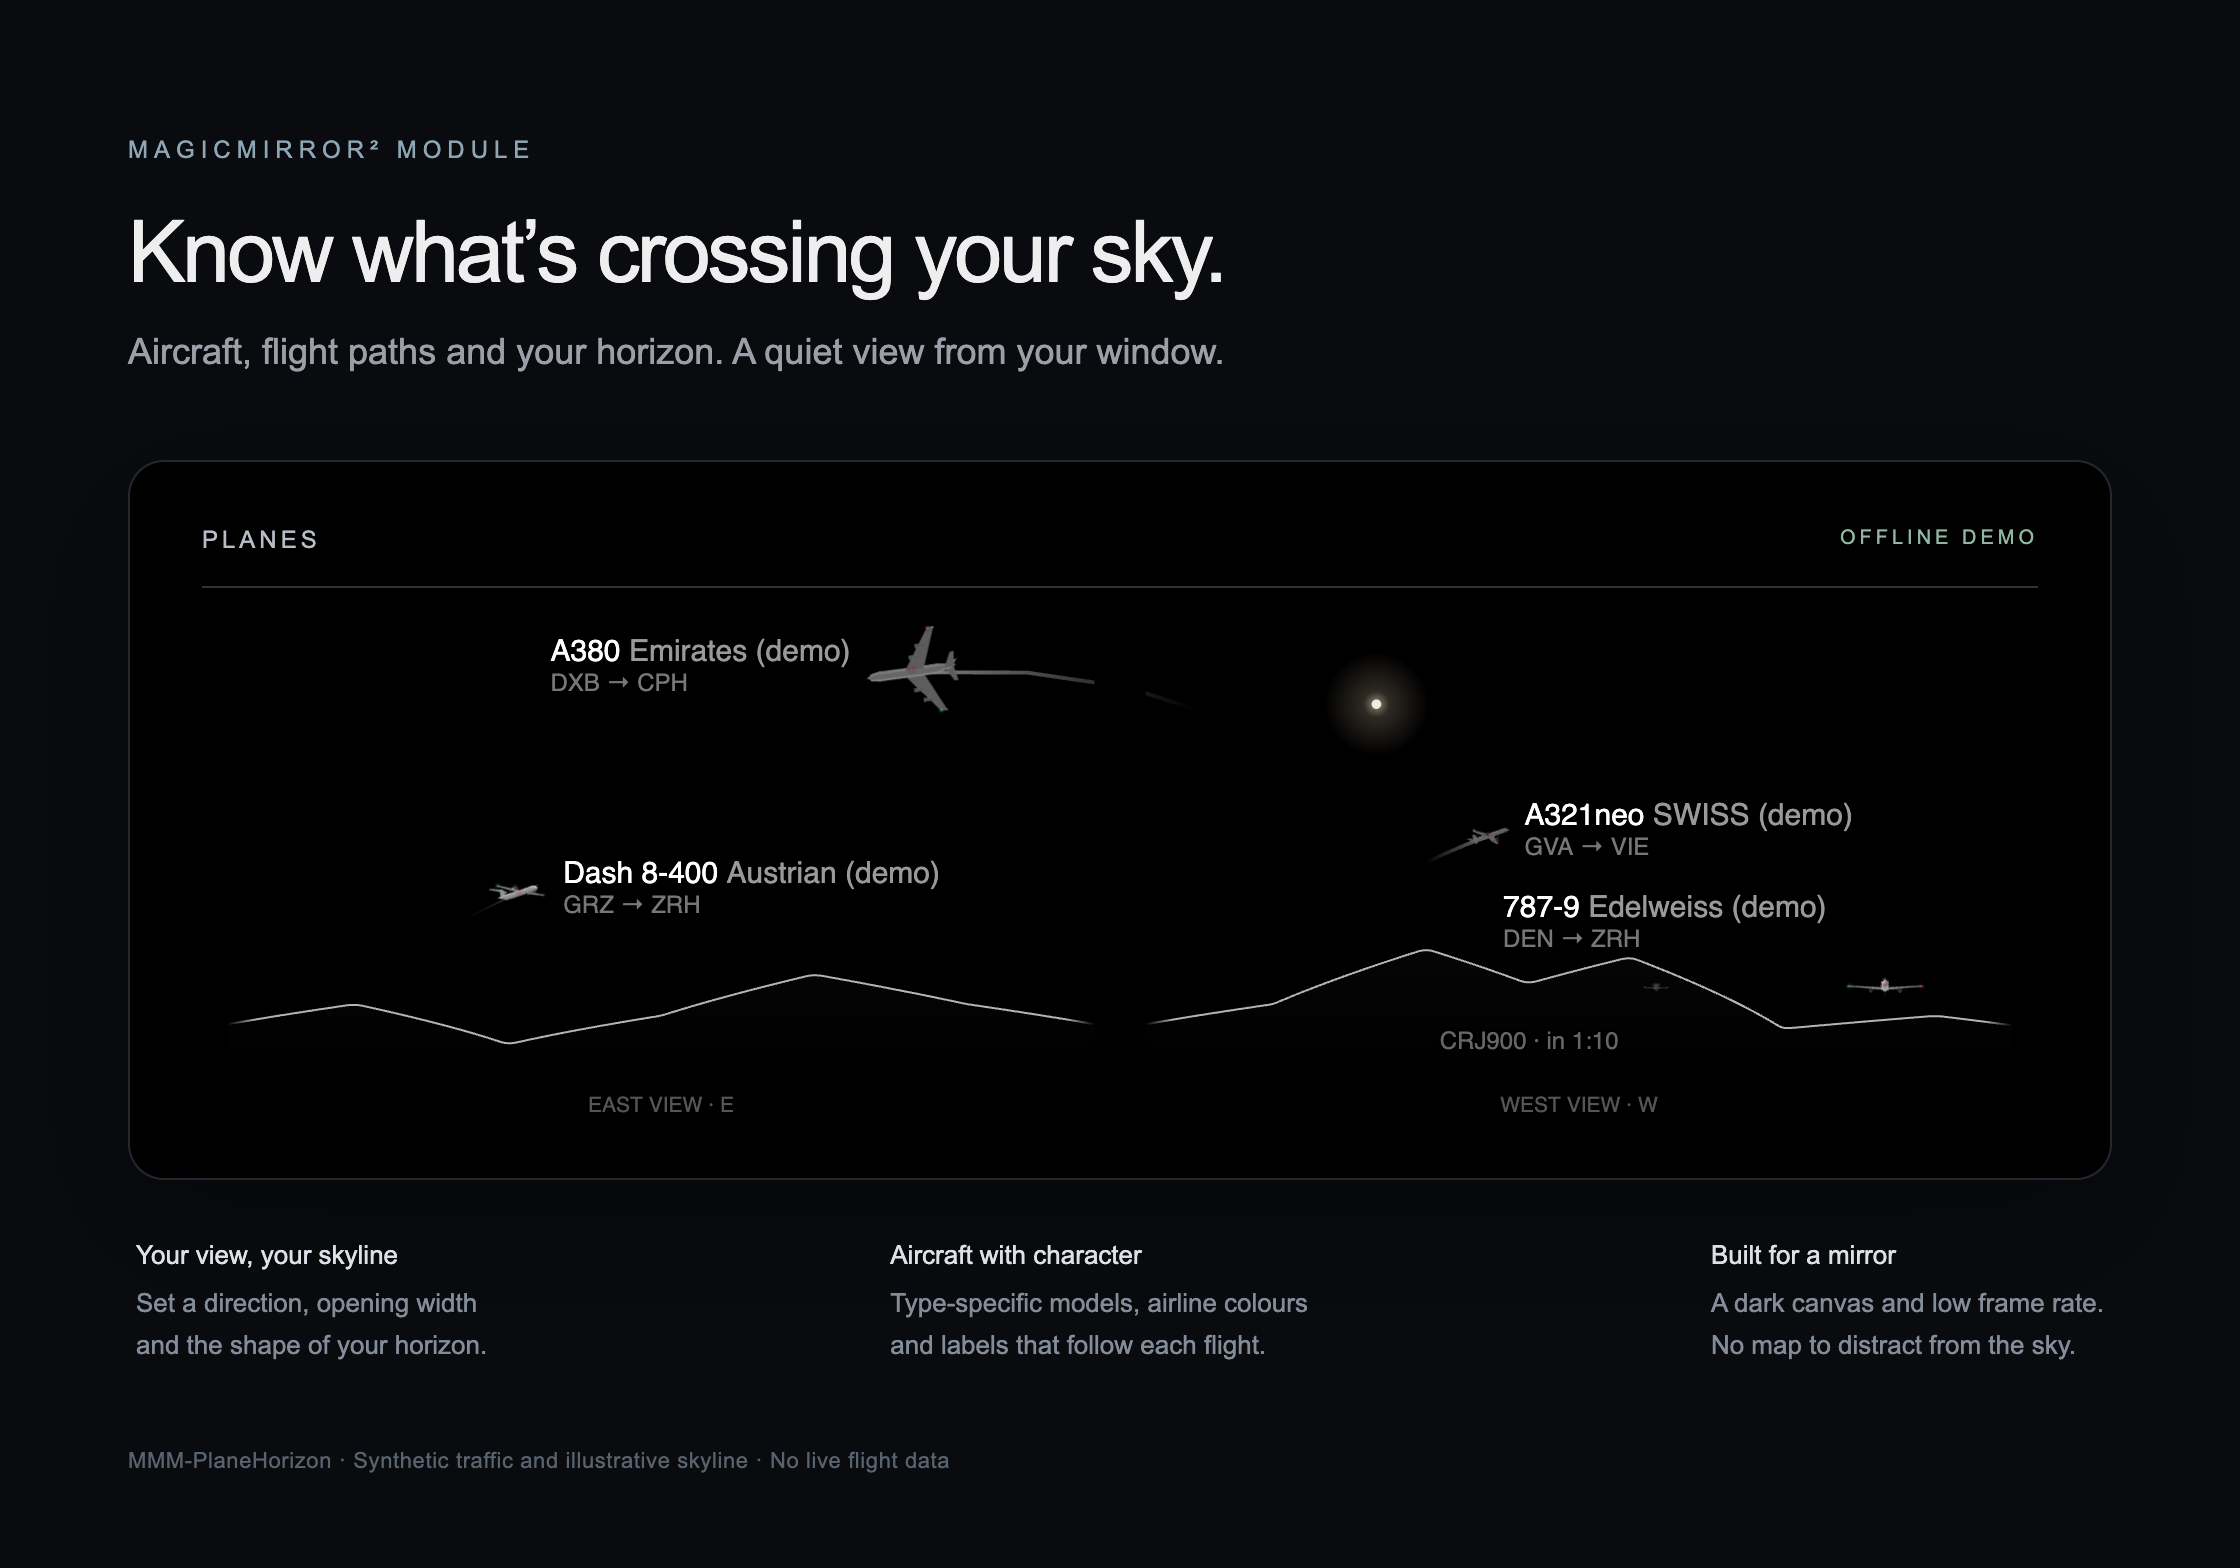
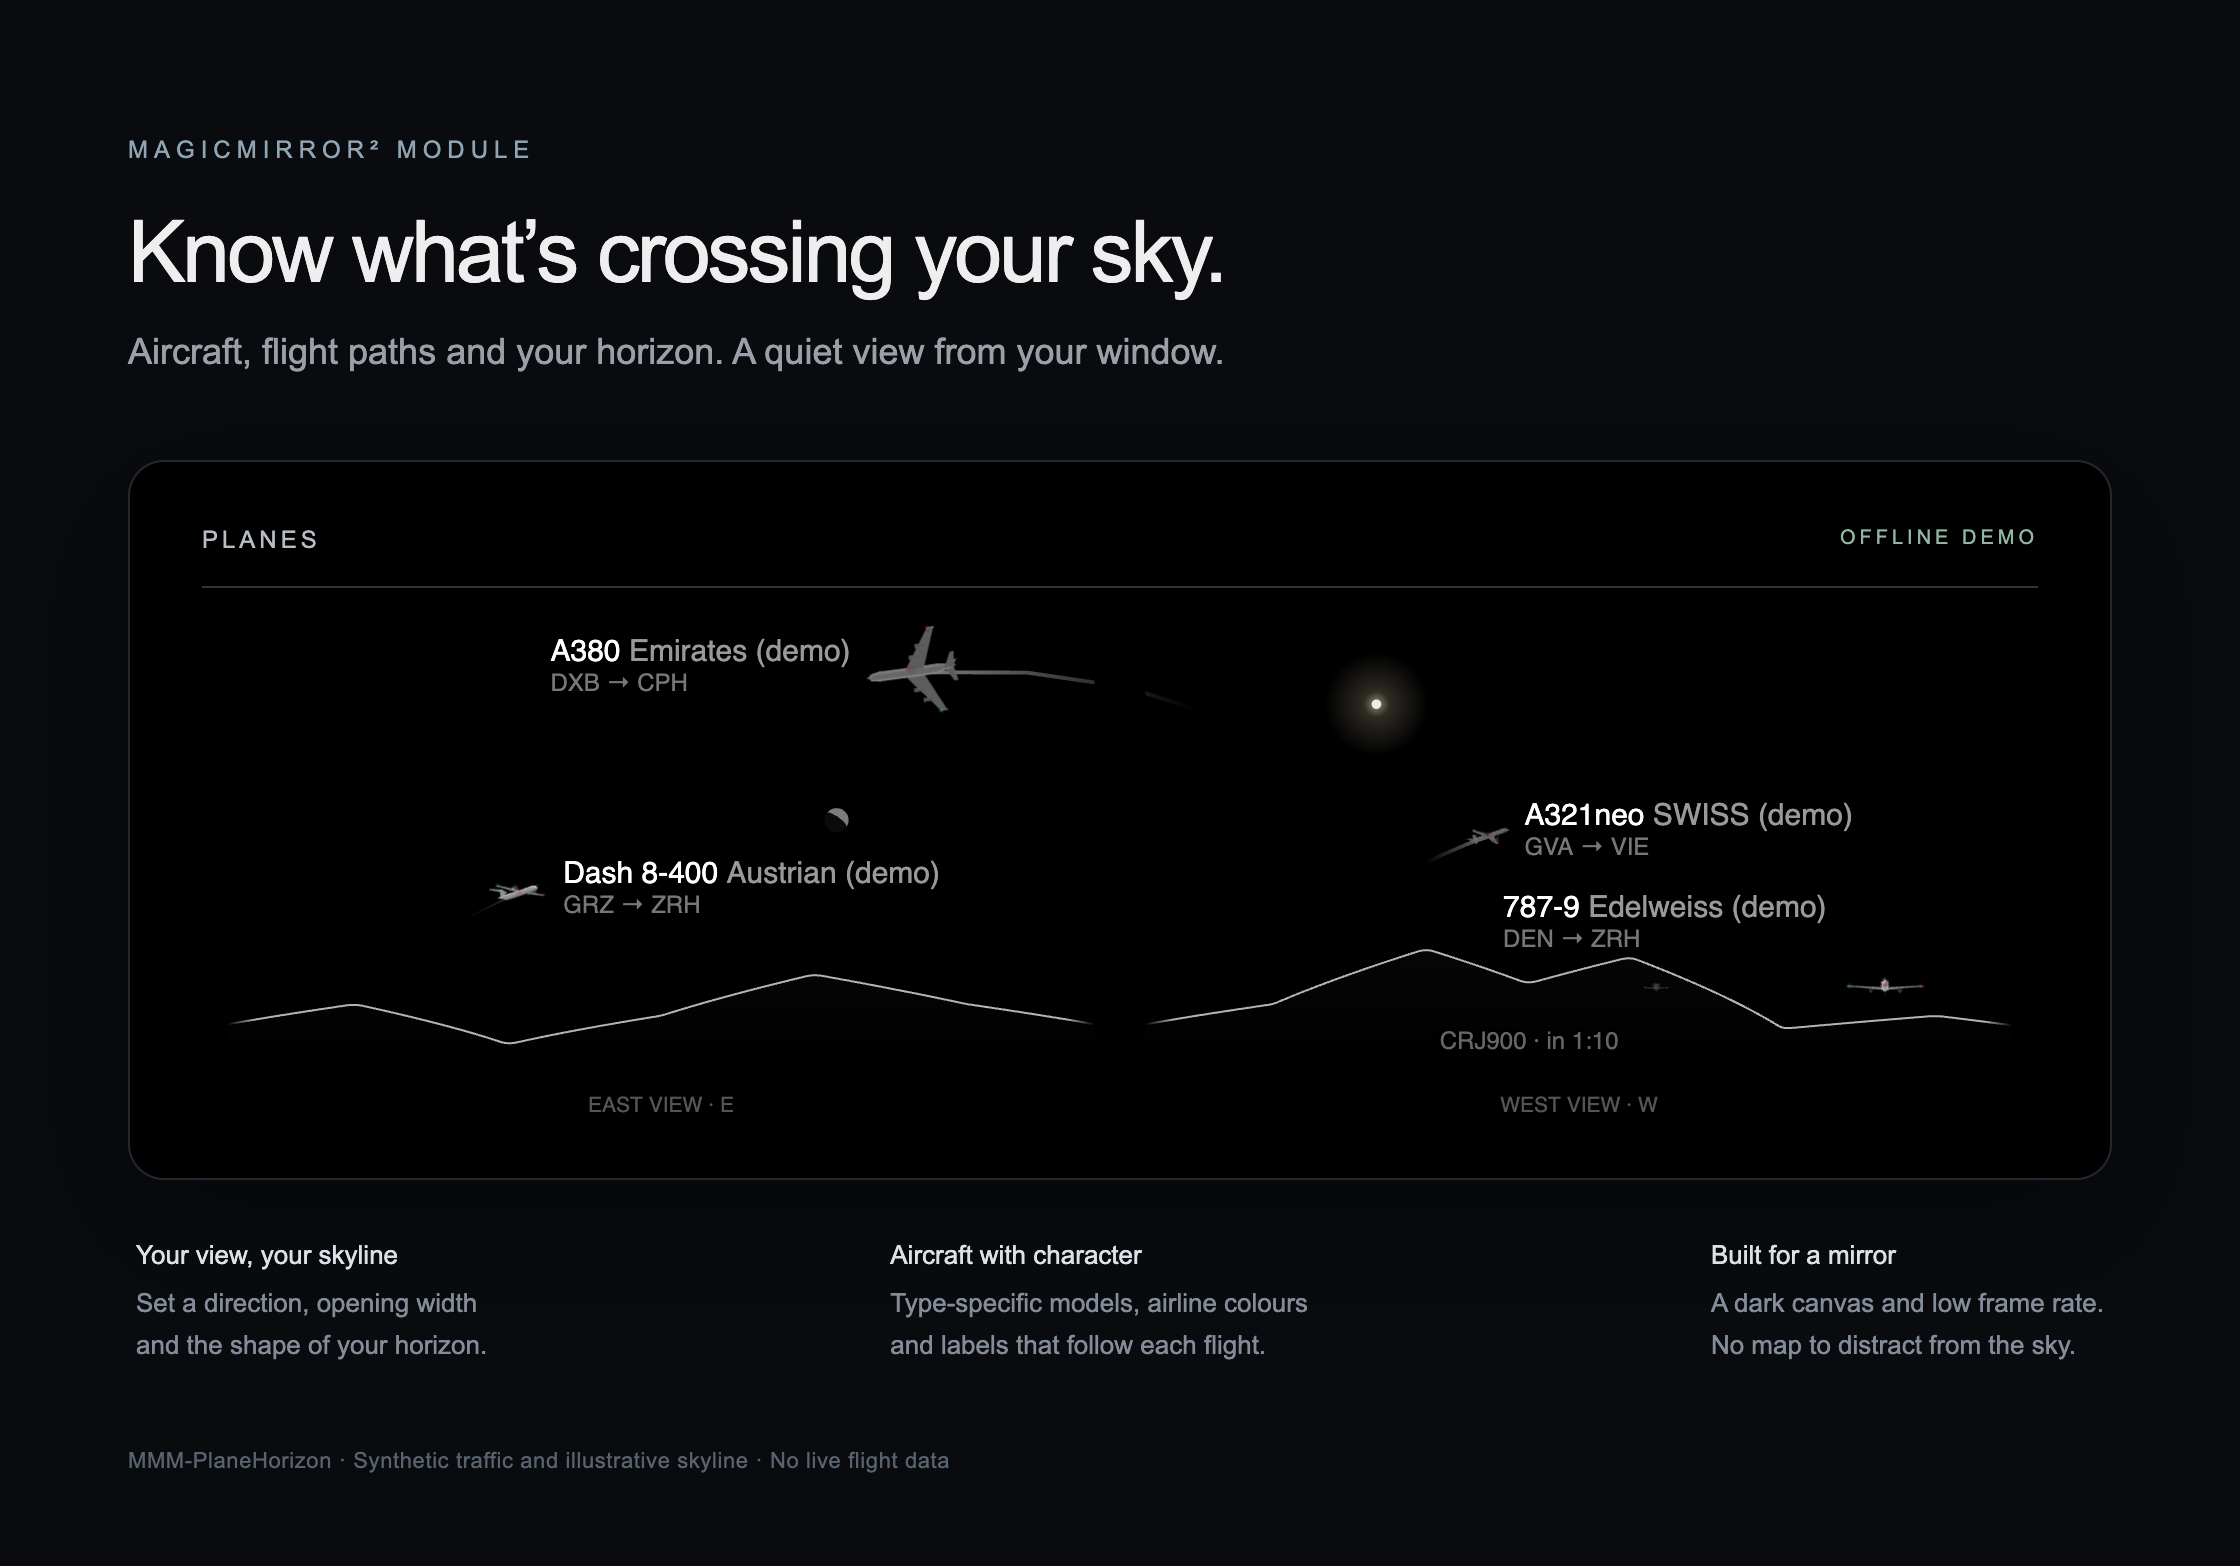
Show the Moon in its current phase, lit side turned as seen from here
moonPosition() computes topocentric azimuth/elevation from the main lunar
terms (about 0.1°), the illuminated fraction and the bright limb's angle
from the local vertical; the view draws it behind the skyline like the
sun, paler by day, recomputed every 30 s. Tests against PyEphem. The demo
screenshots now include the Moon. Version 1.1.0.

diff --git a/lib/sky.js b/lib/sky.js
@@ -131,5 +131,46 @@
     return { az: (deg(Math.atan2(Math.sin(ha), Math.cos(ha) * Math.sin(la) - Math.tan(decl) * Math.cos(la))) + 180) % 360, el: 90 - deg(zen) };
   }
 
-  return { sunPosition, look, relative, horizonAt, apertureTop, apertureHalfWidth, blockedAt, classify, extrapolate, nextVisible, compass };
+  /** Sun right ascension/declination (radians), from the same NOAA series as sunPosition. */
+  function sunEquatorial(c) {
+    const l0 = (280.46646 + c * (36000.76983 + c * 0.0003032)) % 360, mr = rad(357.52911 + c * (35999.05029 - 0.0001537 * c));
+    const eq = Math.sin(mr) * (1.914602 - c * (0.004817 + 0.000014 * c)) + Math.sin(2 * mr) * (0.019993 - 0.000101 * c) + Math.sin(3 * mr) * 0.000289;
+    const om = rad(125.04 - 1934.136 * c), lam = rad(l0 + eq - 0.00569 - 0.00478 * Math.sin(om));
+    const eps = rad(23 + (26 + (21.448 - c * (46.815 + c * (0.00059 - c * 0.001813))) / 60) / 60 + 0.00256 * Math.cos(om));
+    return { ra: Math.atan2(Math.cos(eps) * Math.sin(lam), Math.cos(lam)), dec: Math.asin(Math.sin(eps) * Math.sin(lam)), lon: deg(lam) };
+  }
+
+  /**
+   * Moon as seen from a place: azimuth/elevation (topocentric, no refraction; Meeus ch. 47 main
+   * terms, about 0.1°), illuminated fraction, and `limb`, the direction of the bright limb in
+   * degrees from straight up, turning towards the east (to the left as you face the Moon).
+   */
+  function moonPosition(date, lat, lon) {
+    const d = date.getTime() / 86400000 + 2440587.5 - 2451545, t = d / 36525;
+    const Lp = 218.3164477 + 481267.88123421 * t, D = rad(297.8501921 + 445267.1114034 * t);
+    const M = rad(357.5291092 + 35999.0502909 * t), Mp = rad(134.9633964 + 477198.8675055 * t), F = rad(93.272095 + 483202.0175233 * t);
+    const s = Math.sin, co = Math.cos;
+    const lonE = Lp + 6.288774 * s(Mp) + 1.274027 * s(2 * D - Mp) + 0.658314 * s(2 * D) + 0.213618 * s(2 * Mp) - 0.185116 * s(M) -
+      0.114332 * s(2 * F) + 0.058793 * s(2 * D - 2 * Mp) + 0.057066 * s(2 * D - M - Mp) + 0.053322 * s(2 * D + Mp) +
+      0.045758 * s(2 * D - M) - 0.040923 * s(M - Mp) - 0.03472 * s(D) - 0.030383 * s(M + Mp);
+    const latE = 5.128122 * s(F) + 0.280602 * s(Mp + F) + 0.277693 * s(Mp - F) + 0.173237 * s(2 * D - F) +
+      0.055413 * s(2 * D - F + Mp) + 0.046271 * s(2 * D - F - Mp) + 0.032573 * s(2 * D + F) + 0.017198 * s(2 * Mp + F);
+    const dist = 385000.56 - 20905.355 * co(Mp) - 3699.111 * co(2 * D - Mp) - 2955.968 * co(2 * D) - 569.925 * co(2 * Mp);
+    const eps = rad(23.439291 - 0.0130042 * t), l = rad(lonE), b = rad(latE);
+    const ra = Math.atan2(s(l) * co(eps) - Math.tan(b) * s(eps), co(l)), dec = Math.asin(s(b) * co(eps) + co(b) * s(eps) * s(l));
+    const lst = rad(280.46061837 + 360.98564736629 * d + 0.000387933 * t * t + lon), H = lst - ra, la = rad(lat);
+    const geoEl = Math.asin(Math.max(-1, Math.min(1, s(la) * s(dec) + co(la) * co(dec) * co(H))));
+    const el = deg(geoEl) - deg(Math.asin(6378.14 / dist)) * co(geoEl); // parallax: up to ~1° near the horizon
+    const az = (deg(Math.atan2(s(H), co(H) * s(la) - Math.tan(dec) * co(la))) + 180) % 360;
+    // phase and which way the lit side faces, turned from celestial north to the local vertical
+    const sun = sunEquatorial(t), dra = sun.ra - ra;
+    const psi = Math.acos(Math.max(-1, Math.min(1, s(sun.dec) * s(dec) + co(sun.dec) * co(dec) * co(dra))));
+    const phase = Math.atan2(149598000 * s(psi), dist - 149598000 * co(psi));
+    const chi = Math.atan2(co(sun.dec) * s(dra), s(sun.dec) * co(dec) - co(sun.dec) * s(dec) * co(dra));
+    const q = Math.atan2(s(H), Math.tan(la) * co(dec) - s(dec) * co(H));
+    return { az, el, illumination: (1 + co(phase)) / 2, limb: ((deg(chi - q) % 360) + 360) % 360,
+      waxing: ((lonE - sun.lon) % 360 + 360) % 360 < 180 };
+  }
+
+  return { sunPosition, moonPosition, look, relative, horizonAt, apertureTop, apertureHalfWidth, blockedAt, classify, extrapolate, nextVisible, compass };
 });

diff --git a/lib/view.js b/lib/view.js
@@ -351,7 +351,9 @@
       g.clearRect(0, 0, W, H);
       const sun = Sky.sunPosition(new Date(nowSec * 1000), this.home.lat, this.home.lon);
       const night = sun.el < -4, sunV = [Math.cos(rad(sun.el)) * Math.sin(rad(sun.az)), Math.cos(rad(sun.el)) * Math.cos(rad(sun.az)), Math.sin(rad(sun.el))];
-      g.save(); this.clip(g); this.sunGlow(g, sun); g.restore();
+      // The Moon moves ~0.5° a minute: recompute every 30 s, not every frame.
+      if (!this.moon || nowSec - this.moon.at >= 30) this.moon = Object.assign({ at: nowSec }, Sky.moonPosition(new Date(nowSec * 1000), this.home.lat, this.home.lon));
+      g.save(); this.clip(g); this.sunGlow(g, sun); this.moonDisk(g, this.moon, sun.el); g.restore();
       g.drawImage(this.background, 0, 0, W, H);
 
       // which aircraft: visible now, or coming into view soon
@@ -409,6 +411,34 @@
       gr.addColorStop(0, "rgba(255,244,220,.55)"); gr.addColorStop(0.25, "rgba(255,236,200,.18)"); gr.addColorStop(1, "rgba(255,230,190,0)");
       g.fillStyle = gr; g.beginPath(); g.arc(x, y, 26, 0, Math.PI * 2); g.fill();
       g.fillStyle = "rgba(255,248,235,.9)"; g.beginPath(); g.arc(x, y, 2.4, 0, Math.PI * 2); g.fill();
+    }
+
+    /**
+     * The real Moon in its current phase, the lit side facing where it really does from here
+     * (a crescent tilts with the hour). Behind the landscape like the sun; paler by day.
+     * Drawn larger than life (0.5° would be half a pixel), like the sun.
+     */
+    moonDisk(g, moon, sunEl) {
+      if (moon.el < -3 || moon.el > 80) return;
+      const x = this.geo.x(moon.az), y = this.geo.y(Math.max(moon.el, 0)) + (moon.el < 0 ? -moon.el * 3 : 0);
+      const r = 6, k = moon.illumination, day = clamp((sunEl + 4) / 10, 0, 1), alpha = 0.95 - 0.45 * day;
+      const a = rad(moon.limb); // from straight up, turning east = to the left on this strip
+      g.save();
+      g.translate(x, y); g.rotate(Math.atan2(-Math.cos(a), -Math.sin(a)));
+      if (!day) { // a faint halo at night, stronger when full
+        const gr = g.createRadialGradient(0, 0, r, 0, 0, r * 3.2);
+        gr.addColorStop(0, `rgba(230,232,240,${0.16 * k})`); gr.addColorStop(1, "rgba(230,232,240,0)");
+        g.fillStyle = gr; g.beginPath(); g.arc(0, 0, r * 3.2, 0, Math.PI * 2); g.fill();
+      }
+      g.fillStyle = `rgba(210,215,225,${0.1 * alpha})`; // the unlit disc, just visible
+      g.beginPath(); g.arc(0, 0, r, 0, Math.PI * 2); g.fill();
+      if (k > 0.01) { // lit limb along +x: half disc plus (gibbous) or minus (crescent) the terminator ellipse
+        g.fillStyle = `rgba(238,238,230,${alpha})`;
+        g.beginPath(); g.arc(0, 0, r, -Math.PI / 2, Math.PI / 2, false);
+        g.ellipse(0, 0, Math.max(0.01, r * Math.abs(2 * k - 1)), r, 0, Math.PI / 2, -Math.PI / 2, k < 0.5);
+        g.closePath(); g.fill();
+      }
+      g.restore();
     }
 
     /** The aircraft's picture, re-rendered only when it turned >2.5°, resized >6% or its light changed. */

diff --git a/test/sky.test.js b/test/sky.test.js
@@ -29,3 +29,21 @@ test('dead reckoning and wraparound walls', () => {
 test('solar elevation near zenith at equatorial equinox noon', () => {
   assert.ok(Sky.sunPosition(new Date('2026-03-20T12:07:00Z'), 0, 0).el > 88);
 });
+
+// References from PyEphem (topocentric, no refraction). limb: bright limb from straight up, turning east.
+test("moon position, phase and lit-side orientation match an ephemeris", () => {
+  const cases = [
+    [47.3769, 8.5417, "2026-10-13T17:00:00Z", 227.329, 2.86, 0.0957, 257.9, true], // low crescent, sun just set to the right
+    [47.3769, 8.5417, "2026-09-26T20:00:00Z", 118.788, 29.218, 0.9991, 41.9, false], // full moon rising
+    [51.5, 0, "2026-06-20T14:00:00Z", 124.474, 30.041, 0.3645, 323.8, true], // daytime waxing moon
+    [47.3769, 8.5417, "2026-10-03T06:00:00Z", 213.279, 66.946, 0.5363, 67.7, false] // morning last quarter
+  ];
+  for (const [lat, lon, iso, az, el, illum, limb, waxing] of cases) {
+    const m = Sky.moonPosition(new Date(iso), lat, lon);
+    assert.ok(Math.abs(m.az - az) < 0.25, `${iso} az ${m.az}`);
+    assert.ok(Math.abs(m.el - el) < 0.25, `${iso} el ${m.el}`);
+    assert.ok(Math.abs(m.illumination - illum) < 0.01, `${iso} illumination ${m.illumination}`);
+    assert.ok(Math.abs(((m.limb - limb + 540) % 360) - 180) < 3, `${iso} limb ${m.limb}`);
+    assert.equal(m.waxing, waxing);
+  }
+});

diff --git a/README.md b/README.md
@@ -8,6 +8,7 @@
 
 - Small 3D aircraft models with type-specific shapes, airline colours, sunlight and navigation lights.
 - Flight labels with aircraft type, airline and route when metadata is available.
+- The real sun and Moon behind your skyline. The Moon shows its current phase, with the lit side turned the way it really faces from where you stand, so a crescent tilts through the evening (position within about 0.1°, checked against an ephemeris).
 - Multiple viewing directions, configurable window width, roof limit and skyline.
 - Predictions for aircraft about to enter your view on their current track.
 - Canvas rendering at 4 FPS by default, cached aircraft sprites, no runtime npm dependencies.

diff --git a/CHANGELOG.md b/CHANGELOG.md
@@ -1,0 +1,13 @@
+# Changelog
+
+## 1.1.0 — 2026-09-29
+
+- The Moon: real position (topocentric, main lunar terms; about 0.1°) and current phase, drawn
+  behind the skyline like the sun, with the lit side oriented as seen from your location. Paler
+  by day, a faint halo at night. Recomputed every 30 s.
+- `npm test` only runs `test/*.test.js`.
+
+## 1.0.0 — 2026-09-27
+
+- First public release: aircraft from OpenSky on your measured or configured skyline, 3D models,
+  labels and predictions, and an offline demo.
